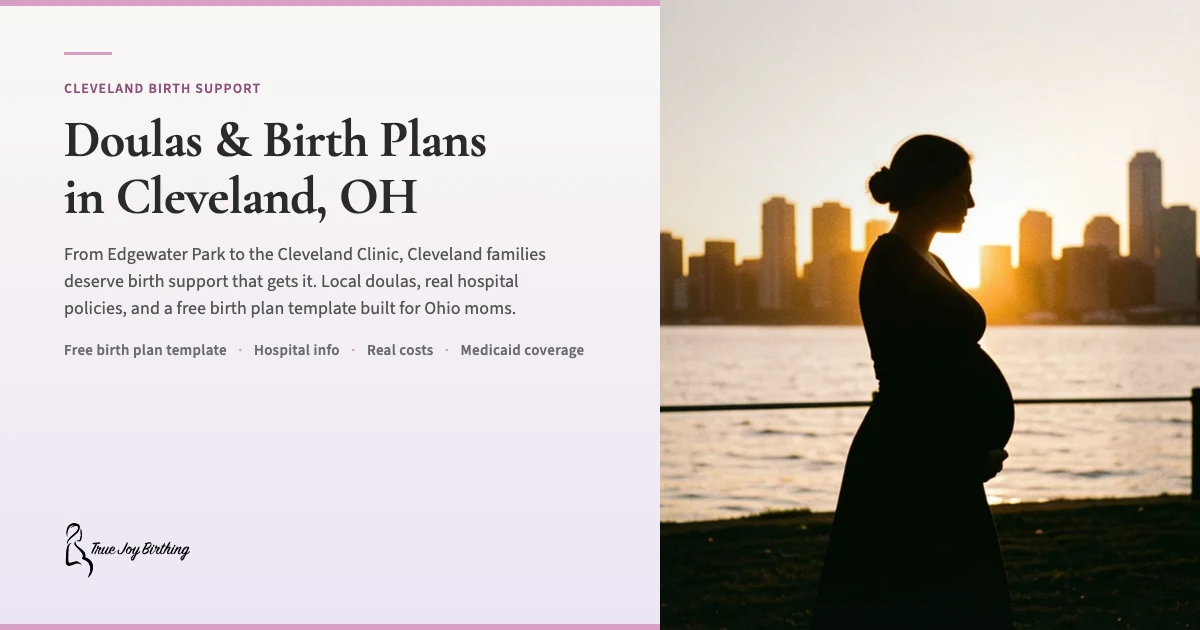
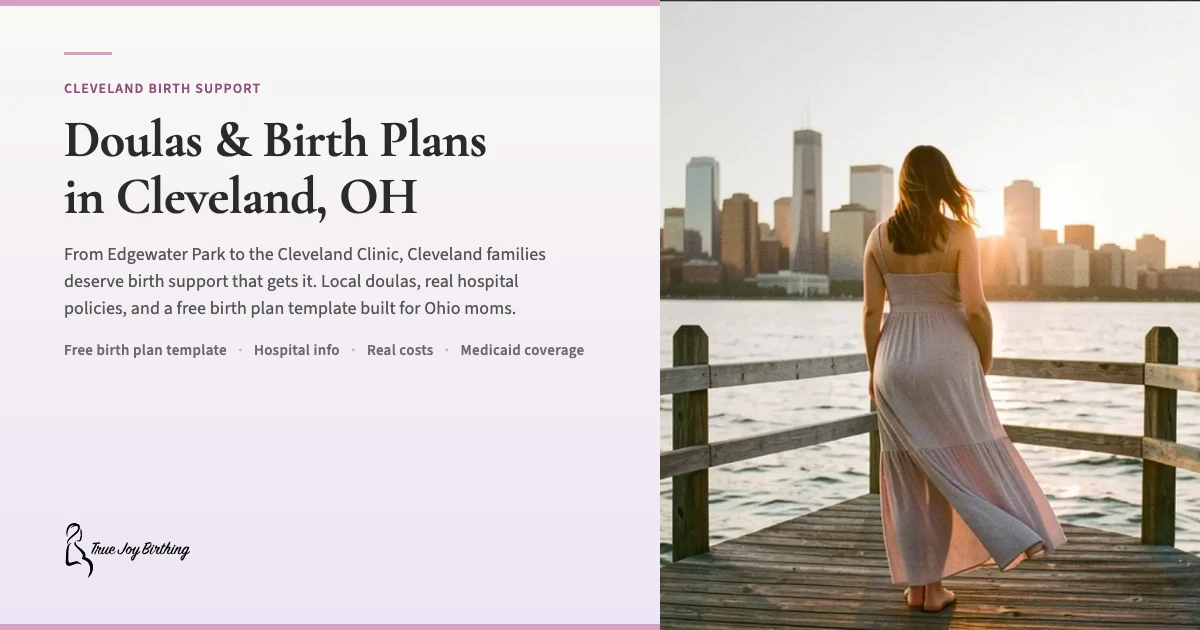
cleveland-oh: new hero photo v3, compressed, OG re-rendered

diff --git a/src/data/cities.ts b/src/data/cities.ts
@@ -2876,7 +2876,7 @@ export const cities: Record<string, CityData> = {
     costLow: 800,
     costHigh: 2500,
     shelbiServesHere: false,
-    heroImage: "/images/cleveland-oh-birth-doula-skyline-v2.webp",
+    heroImage: "/images/cleveland-oh-birth-doula-skyline-v3.webp",
     ogImage: "https://truejoybirthing.com/images/og-city-cleveland-oh.webp",
     supportSceneImage: "/images/cleveland-oh-birth-doula-support.webp",
     localDoulas: [

diff --git a/scripts/og-city-cleveland-oh-composition.html b/scripts/og-city-cleveland-oh-composition.html
@@ -137,7 +137,7 @@
     </div>
   </div>
   <div class="right-column">
-    <img src="file:///Users/socializerender/Projects/truejoybirthing-website/public/images/cleveland-oh-birth-doula-skyline.webp" alt="Cleveland birth doula" />
+    <img src="file:///Users/socializerender/Projects/truejoybirthing-website/public/images/cleveland-oh-birth-doula-skyline-v3.webp" alt="Cleveland birth doula" />
   </div>
 </div>
 </body>
